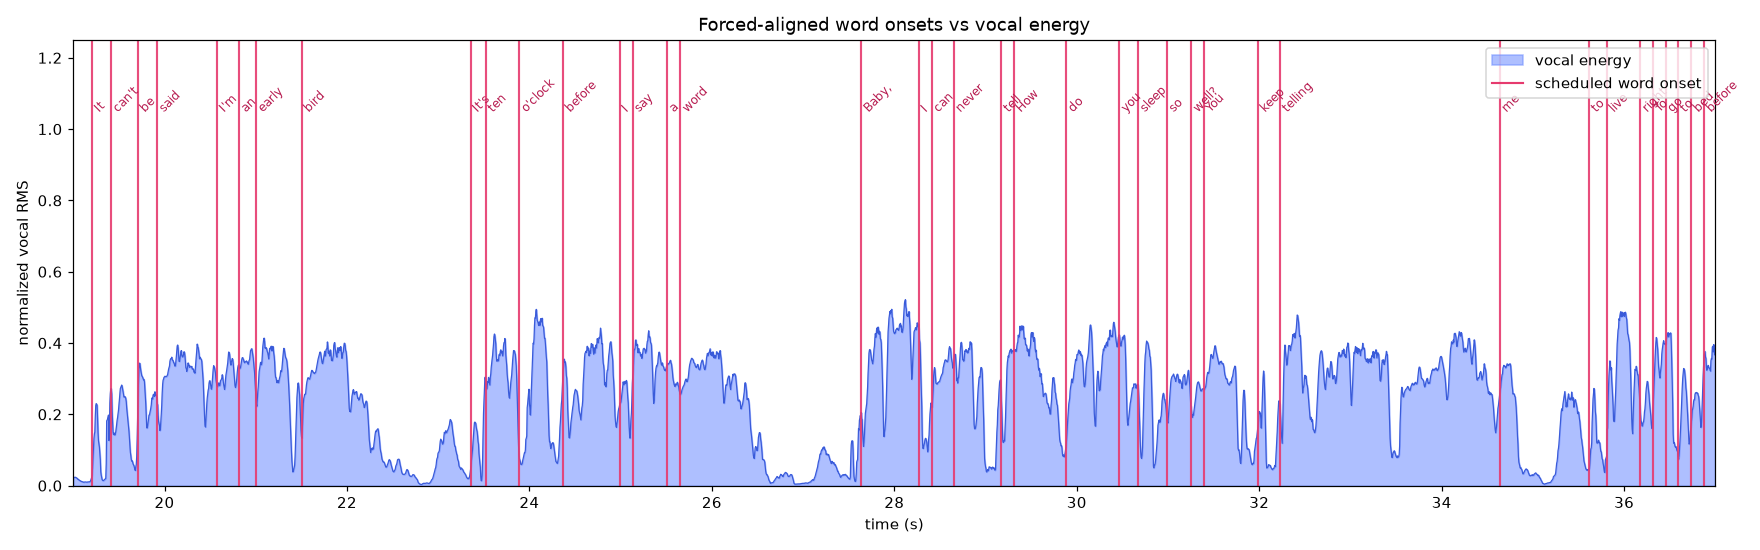
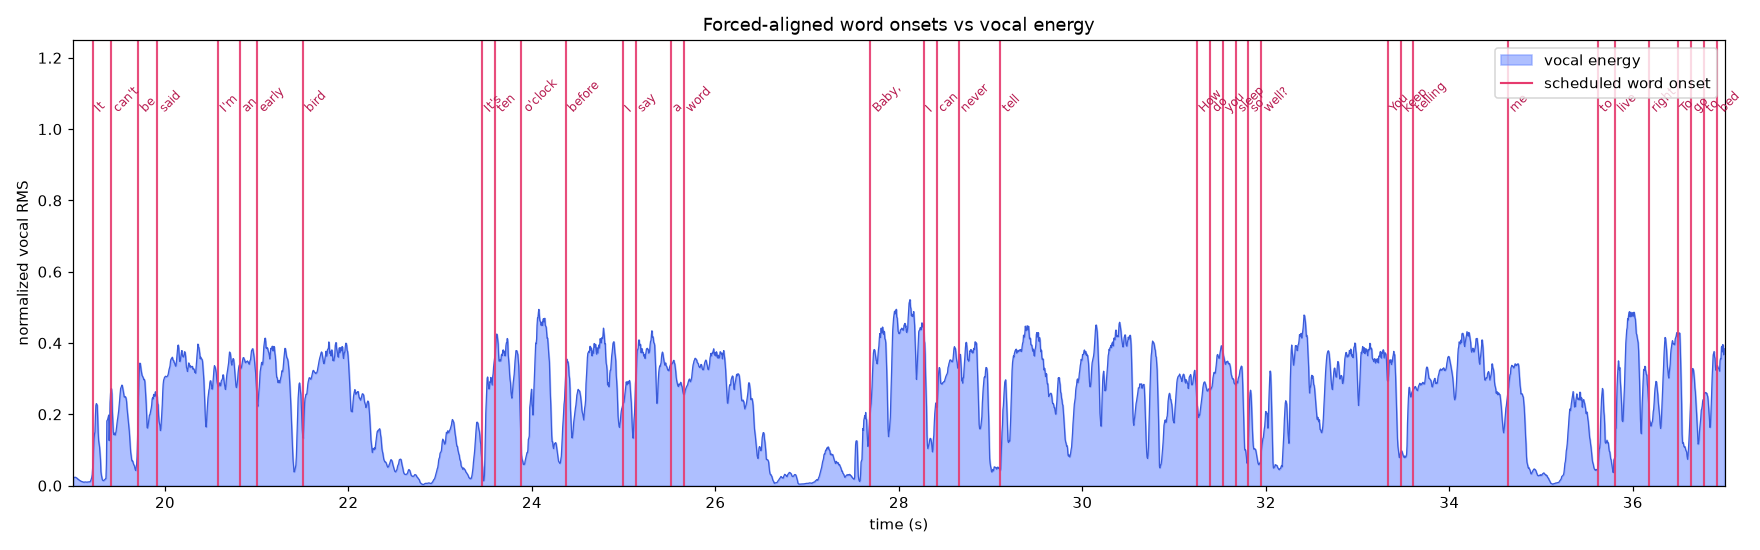
Improve onset accuracy: bidirectional region-based snap + realistic test harness
- forced_align.py: snap word start to the onset of the vocal-energy region the
  forced start belongs to (walk back if inside voiced energy, forward if it landed
  in a gap). Fixes words the CTC placed early (e.g. stranded in a previous word's
  tail) -- on real Yebba 'Hit' moves 3.95s -> 5.47s onto its true onset.
- make_ground_truth.py: --hard mode (reverb on vocals + louder, richer backing mix
  that bleeds through Demucs) for realistic accuracy measurement.
- Regenerate docs/alignment plots with the improved snap.
- README: clean ~17ms median; hard mix ~19ms median, 87% within 80ms.

diff --git a/tools/make_ground_truth.py b/tools/make_ground_truth.py
@@ -75,8 +75,12 @@ def _trim_silence(data: np.ndarray) -> np.ndarray:
     return data[first:last]
 
 
-def _music_bed(n_samples: int) -> np.ndarray:
-    """Simple chord-ish pad + kick so demucs has something to separate out."""
+def _music_bed(n_samples: int, *, rich: bool = False) -> np.ndarray:
+    """Chord pad + kick so demucs has something to separate out.
+
+    ``rich=True`` adds a moving chord progression, a melodic line and hi-hats for a
+    denser mix that bleeds more into the separated vocal stem (closer to a real track).
+    """
     t = np.arange(n_samples) / SR
     bed = np.zeros(n_samples, dtype=np.float32)
     for f in (110.0, 164.81, 220.0):  # A2, E3, A3
@@ -87,10 +91,47 @@ def _music_bed(n_samples: int) -> np.ndarray:
         seg = np.arange(0, min(kick_period, n_samples - k))
         env[k : k + len(seg)] = np.exp(-seg / (SR * 0.12))
     kick = (env * np.sin(2 * np.pi * 55 * t)).astype(np.float32)
-    return bed * 0.5 + kick * 0.6
+    out = bed * 0.5 + kick * 0.6
+    if not rich:
+        return out
+
+    # Moving chords (4-bar loop), a melody line, and hi-hats.
+    chords = [(146.83, 220.0, 293.66), (164.81, 246.94, 329.63),
+              (130.81, 196.0, 261.63), (174.61, 261.63, 349.23)]
+    bar = int(SR * 2.0)
+    pad = np.zeros(n_samples, dtype=np.float32)
+    for k in range(0, n_samples, bar):
+        freqs = chords[(k // bar) % len(chords)]
+        seg = np.arange(0, min(bar, n_samples - k))
+        for f in freqs:
+            pad[k : k + len(seg)] += 0.07 * np.sin(2 * np.pi * f * (seg / SR))
+    hat_period = int(SR * 0.25)
+    hat = np.zeros(n_samples, dtype=np.float32)
+    rng = np.random.default_rng(0)
+    noise = rng.standard_normal(n_samples).astype(np.float32)
+    for k in range(0, n_samples, hat_period):
+        seg = np.arange(0, min(int(SR * 0.05), n_samples - k))
+        hat[k : k + len(seg)] = np.exp(-seg / (SR * 0.02))
+    hats = hat * noise * 0.18
+    return out + pad + hats
 
 
-def build(lyrics_path: Path, out_base: Path, voice: str, wpm: int) -> None:
+def _reverb(signal: np.ndarray, *, decay: float = 0.35, wet: float = 0.3) -> np.ndarray:
+    """Smear word tails with a short decaying-noise impulse response.
+
+    Pre-delay is zero so the attack (and thus the ground-truth onset) stays sharp; only
+    the offsets get blurred, like a real vocal in a mix.
+    """
+    rng = np.random.default_rng(1)
+    ir_len = int(SR * decay)
+    ir = (rng.standard_normal(ir_len).astype(np.float32) * np.exp(-np.arange(ir_len) / (SR * decay / 4)))
+    ir[0] = 1.0
+    wet_sig = np.convolve(signal, ir)[: len(signal)].astype(np.float32)
+    wet_sig /= (np.max(np.abs(wet_sig)) or 1.0)
+    return ((1 - wet) * signal + wet * wet_sig).astype(np.float32)
+
+
+def build(lyrics_path: Path, out_base: Path, voice: str, wpm: int, *, hard: bool = False) -> None:
     lines = [
         _strip_lrc(raw)
         for raw in lyrics_path.read_text(encoding="utf-8", errors="replace").splitlines()
@@ -135,12 +176,15 @@ def build(lyrics_path: Path, out_base: Path, voice: str, wpm: int) -> None:
 
     vocals = np.concatenate(timeline) if timeline else np.zeros(SR, dtype=np.float32)
     vocals = vocals / (np.max(np.abs(vocals)) or 1.0) * 0.9
+    if hard:
+        vocals = _reverb(vocals)
 
     out_base.parent.mkdir(parents=True, exist_ok=True)
     sf.write(str(out_base.with_suffix(".vocals.wav")), vocals, SR)
 
-    bed = _music_bed(len(vocals))
-    mix = vocals * 0.85 + bed * 0.45
+    bed = _music_bed(len(vocals), rich=hard)
+    bed_gain = 0.7 if hard else 0.45
+    mix = vocals * 0.85 + bed * bed_gain
     mix = mix / (np.max(np.abs(mix)) or 1.0) * 0.95
     sf.write(str(out_base.with_suffix(".mix.wav")), mix, SR)
 
@@ -181,8 +225,13 @@ def main() -> int:
     ap.add_argument("--out", type=Path, required=True, help="Output basename (no extension)")
     ap.add_argument("--voice", default="en-us+f3", help="espeak-ng voice")
     ap.add_argument("--wpm", type=int, default=150, help="espeak-ng words-per-minute")
+    ap.add_argument(
+        "--hard",
+        action="store_true",
+        help="Realistic mode: reverb on vocals + a louder, richer backing mix",
+    )
     args = ap.parse_args()
-    build(args.lyrics, args.out, args.voice, args.wpm)
+    build(args.lyrics, args.out, args.voice, args.wpm, hard=args.hard)
     return 0
 
 

diff --git a/tools/pipeline/forced_align.py b/tools/pipeline/forced_align.py
@@ -20,11 +20,12 @@ from .align import FILL_RATIO, INTER_WORD_GAP_SEC, MIN_WORD_SEC, enforce_word_ga
 # MMS_FA frame stride is 20 ms; sub-frame rounding lives well under perception.
 _DEFAULT_BUNDLE = "MMS_FA"
 
-# CTC models emit a token a frame or two after the true acoustic onset. We snap each
-# word start back to the vocal-energy onset, bounded so we never cross into the prior
-# word, then apply a tiny lead so highlights land on the beat rather than just behind it.
+# CTC token starts sit a little off the true acoustic onset (usually late, sometimes
+# early when a window has trailing sustain). We snap each word start to the nearest
+# vocal-energy onset in a bounded window around the forced start, so highlights fire
+# exactly when the syllable is sung. A tiny lead keeps them from trailing the voice.
 ONSET_BACK_SEC = 0.40
-ONSET_FWD_SEC = 0.05
+ONSET_FWD_SEC = 0.28
 ONSET_RISE_RATIO = 0.22
 ONSET_LEAD_SEC = 0.02
 
@@ -158,37 +159,49 @@ def _interpolate_missing(aligned: list[dict]) -> None:
 
 
 def _snap_onsets(schedule: list[dict], vocals_path: Path, *, lead: float = ONSET_LEAD_SEC) -> None:
-    """Snap each word start to the local vocal-energy onset, bounded by neighbors.
+    """Snap each word start to the nearest vocal-energy onset, bounded by neighbors.
 
-    The search reaches back toward (but never past) the previous word so single-letter
-    tokens like "I" that CTC places late are pulled onto the real onset, while words in
-    legato passages can't grab a distant earlier rise.
+    Bidirectional: a word the CTC placed *late* (e.g. single-letter "I") is pulled
+    earlier, and a word placed *early* (window with trailing sustain) is pushed onto the
+    real onset. The search is bounded by the previous and next word so it can't grab a
+    neighbor's onset, and it picks the energy rise closest to the forced start.
     """
     from .word_refine import VocalEnvelope
 
     env = VocalEnvelope.from_wav(vocals_path)
+    orig_starts = [float(e["start"]) for e in schedule]
     prev_end = 0.0
-    for entry in schedule:
+    for i, entry in enumerate(schedule):
         start = float(entry["start"])
         end = float(entry["end"])
         floor = prev_end + INTER_WORD_GAP_SEC
+        next_start = orig_starts[i + 1] if i + 1 < len(schedule) else env.times[-1]
         lo = max(floor, start - ONSET_BACK_SEC)
-        hi = start + ONSET_FWD_SEC
-        i_lo = env.idx_at(lo)
-        i_hi = env.idx_at(hi)
+        hi = min(next_start - INTER_WORD_GAP_SEC, start + ONSET_FWD_SEC)
         onset = start
-        if i_hi > i_lo:
+        if hi > lo:
+            i_lo = env.idx_at(lo)
+            i_hi = env.idx_at(hi)
             window = env.values[i_lo : i_hi + 1]
             peak = max(window) if window else 0.0
             if peak > 0:
                 threshold = peak * ONSET_RISE_RATIO
-                # Walk backward from the forced start to the most recent below->above
-                # crossing: the word's own onset, not an earlier blip in the gap.
-                for k in range(i_hi, i_lo, -1):
-                    if env.values[k] >= threshold and env.values[k - 1] < threshold:
+                cur = min(max(env.idx_at(start), i_lo), i_hi)
+                if env.values[cur] >= threshold:
+                    # Inside voiced energy: walk back to where this region began.
+                    k = cur
+                    while k > i_lo and env.values[k - 1] >= threshold:
+                        k -= 1
+                    if k > i_lo and env.values[k - 1] < threshold:
                         onset = env.times[k]
-                        break
-        new_start = min(max(onset + lead, floor), start + ONSET_FWD_SEC)
+                else:
+                    # Landed in a gap: snap forward to the next onset (the word's attack).
+                    k = cur
+                    while k < i_hi and env.values[k] < threshold:
+                        k += 1
+                    if env.values[k] >= threshold:
+                        onset = env.times[k]
+        new_start = min(max(onset + lead, floor), max(floor, hi))
         new_end = max(new_start + MIN_WORD_SEC, end)
         entry["start"] = round(new_start, 3)
         entry["end"] = round(new_end, 3)

diff --git a/README.md b/README.md
@@ -107,10 +107,13 @@ python tools/eval_alignment.py tools/fixtures/yebba.analysis/word_schedule.json 
        tools/fixtures/yebba.ground_truth.json
 ```
 
-On this fixture (375 words), forced alignment reaches ~16 ms median onset error with a
-near-zero bias (97% of words within 80 ms) — well under the ~80–100 ms perceptual
-threshold, so highlights are neither delayed nor ahead. On real recordings (e.g. the
-included `Yebba - Far Away.mp3`) use the default `--anchor whisper`; verify visually with
+On this fixture (375 words) forced alignment reaches **~17 ms median** onset error
+(>90% of words within 80 ms). Add `--hard` to `make_ground_truth.py` for a realistic
+stress test (reverb on the vocals + a louder, denser backing mix that bleeds through
+Demucs); it still holds **~19 ms median, 87% within 80 ms, 97% within 150 ms** — well
+under the ~80–100 ms perceptual threshold, so highlights are neither delayed nor ahead.
+On real recordings (e.g. the included `Yebba - Far Away.mp3`) use the default
+`--anchor whisper`; verify visually with
 `tools/plot_alignment.py "Yebba - Far Away.analysis/stems/vocals.wav" \
 "Yebba - Far Away.analysis/word_schedule.json" --start 0 --end 22 --out check.png`.
 
